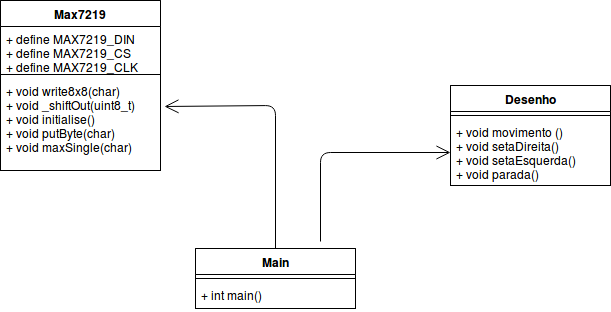
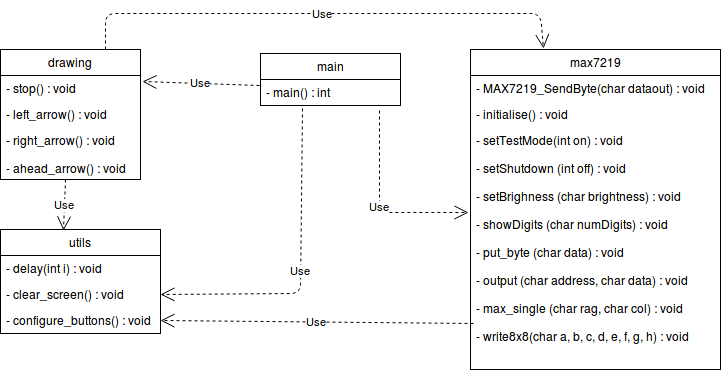
aterado diagrama uml

diff --git a/3_Trabalho/relatorio/relatorio.tex b/3_Trabalho/relatorio/relatorio.tex
@@ -212,7 +212,7 @@ Enquanto a outra tem um de seus pinos ligados no GND e o outro no pino RST.
 
 \section{Descrição do Software}
 \subsection{Diagrama UML}
-A figura \ref{fig:uml} apresenta o diagrama UML do sistema. O sistema consiste de 3 arquivos, o arquivo main e 2 bibliotecas. O main realiza a chamada das funções das bibliotecas, realizando a execução do sistema em si. A biblioteca Desenho contém os desenhos que são exibidos pela matriz 8x8. A biblioteca MAX7219 contém todas as funções relacionadas à manipulação do multiplexador MAX7219. 
+A figura \ref{fig:uml} apresenta o diagrama UML do sistema. O sistema consiste de 4 arquivos, o arquivo main e 3 bibliotecas. O main realiza a chamada das funções das bibliotecas, realizando a execução do sistema em si. A biblioteca drawing contém os desenhos que são exibidos pela matriz 8x8. A biblioteca max7219 contém todas as funções relacionadas à manipulação do multiplexador max7219. A biblioteca utils contém funções de uso geral. 
 
 \begin{figure}[H]
   \centering
@@ -280,8 +280,8 @@ void write8x8(a, b, c, d, e, f, g, h){
 }
 \end{lstlisting}
 
-\subsubsection{Desenho.h}
-A biblioteca Desenho.h é a responsável pelo apoio na criação de funções para a exibição de imagens na matriz de led 8x8. Nesta biblioteca estão as funções rigth\_arrow(), left\_arrow(), ahead\_arrow() e stop(). O funcionamento básico de todas as funções desta biblioteca é o seguinte:
+\subsubsection{Drawing.h}
+A biblioteca Drawing.h é a responsável pelo apoio na criação de funções para a exibição de imagens na matriz de led 8x8. Nesta biblioteca estão as funções rigth\_arrow(), left\_arrow(), ahead\_arrow() e stop(). O funcionamento básico de todas as funções desta biblioteca é o seguinte:
 
 \begin{lstlisting}
 void left_arrow(){
